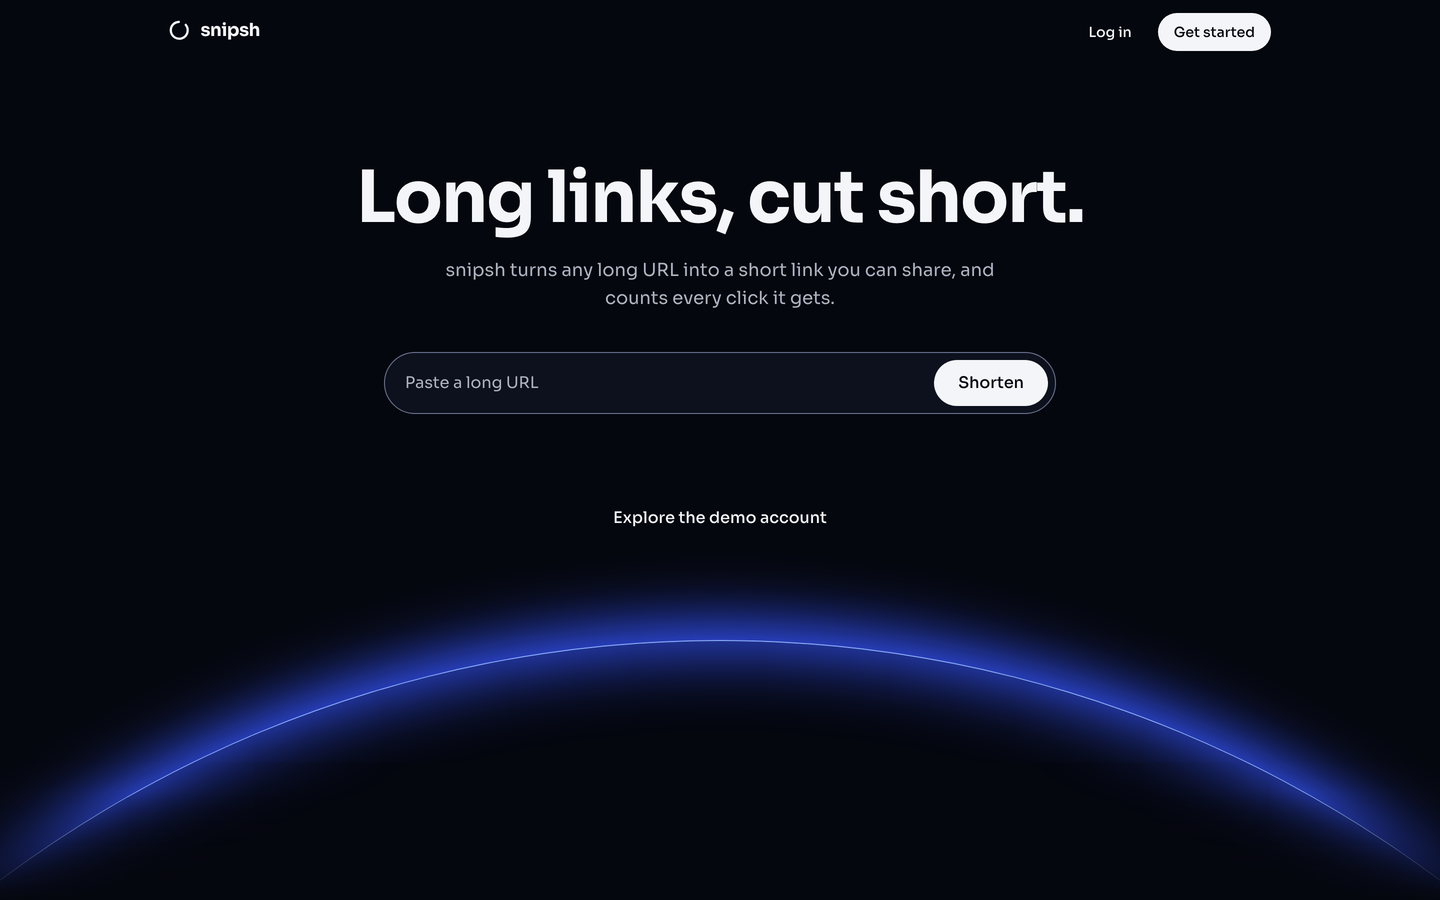
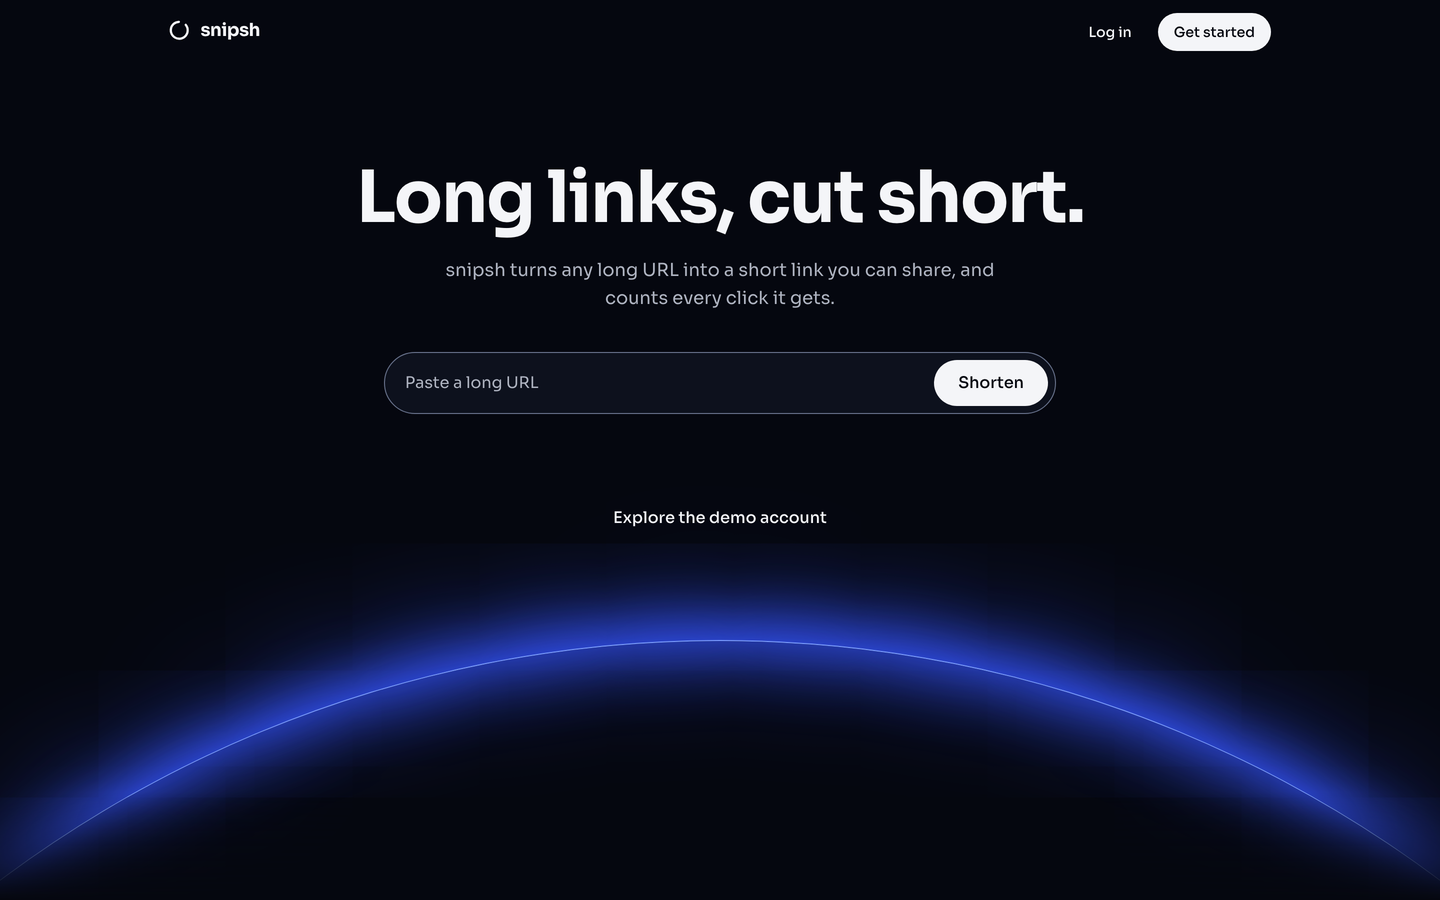
feat(web): make the horizon glow breathe and snap the landing cut on scroll

Changed region(s): [[0.0625, 0.6222, 1.0, 0.9022], [0.0, 0.8711, 0.0625, 0.9333], [0.625, 0.7467, 0.6562, 0.7778]]

diff --git a/apps/web/src/pages/landing/TheCut.tsx b/apps/web/src/pages/landing/TheCut.tsx
@@ -1,5 +1,6 @@
 import { useEffect, useRef, useState } from 'react'
 import { shortLinkLabel } from '@/lib/short-link'
+import { cn } from '@/lib/utils'
 import { prefersReducedMotion } from './motion'
 
 // A sample address; this short link does not exist.
@@ -8,12 +9,10 @@ const SAMPLE_URL =
 const SAMPLE_SLUG = 'Wq0_m7e'
 
 // How far the page scrolls while the section is pinned.
-const PIN_TRAVEL_PX = 900
-// The cut waits a little at each end, so both the long URL and the short link get a still moment.
-const CUT_START = 0.1
-const CUT_END = 0.9
-
-const clamp01 = (value: number) => Math.min(Math.max(value, 0), 1)
+const PIN_TRAVEL_PX = 500
+// Scroll past this share of the pinned distance and the cut plays; scroll back above it and it undoes.
+const CUT_AT = 0.35
+const CUT_MOTION = 'duration-700 ease-out-expo'
 
 function Intro() {
   return (
@@ -43,17 +42,15 @@ function Addresses() {
   )
 }
 
-// The section pins while the page scrolls, and the scroll drives a cut line across the long URL:
-// down wipes it away and leaves the short link, back up puts it together again.
+// The section pins while the page scrolls. Passing the threshold snaps the cut line across the
+// long URL and leaves the short link; scrolling back above it puts the long URL together again.
 function PinnedCut() {
   const section = useRef<HTMLElement>(null)
-  const stage = useRef<HTMLDivElement>(null)
+  const [isCut, setIsCut] = useState(false)
 
   useEffect(() => {
     function update() {
-      const progress = -section.current!.getBoundingClientRect().top / PIN_TRAVEL_PX
-      const cut = clamp01((progress - CUT_START) / (CUT_END - CUT_START))
-      stage.current!.style.setProperty('--cut', String(cut))
+      setIsCut(-section.current!.getBoundingClientRect().top / PIN_TRAVEL_PX > CUT_AT)
     }
     update()
     window.addEventListener('scroll', update, { passive: true })
@@ -64,14 +61,28 @@ function PinnedCut() {
     <section ref={section} aria-labelledby="cut-title" style={{ height: `calc(100svh + ${PIN_TRAVEL_PX}px)` }}>
       <div className="sticky top-0 flex h-svh flex-col justify-center">
         <Intro />
-        <div ref={stage} aria-hidden className="relative mt-14 h-[1.6em] text-lg sm:mt-20 sm:text-4xl">
-          <span className="link-text absolute inset-0 [clip-path:inset(-1em_0_-1em_calc(var(--cut,0)*100%))] whitespace-nowrap text-muted-foreground [mask-image:linear-gradient(to_right,#000_75%,transparent)] [overflow-wrap:normal]">
+        <div aria-hidden className="relative mt-14 h-[1.6em] text-lg sm:mt-20 sm:text-4xl">
+          <span
+            className={cn(
+              'link-text absolute inset-0 whitespace-nowrap text-muted-foreground transition-[clip-path] [mask-image:linear-gradient(to_right,#000_75%,transparent)] [overflow-wrap:normal]',
+              CUT_MOTION,
+              isCut ? '[clip-path:inset(-1em_0_-1em_100%)]' : '[clip-path:inset(-1em_0_-1em_0)]',
+            )}
+          >
             {SAMPLE_URL}
           </span>
-          <span className="link-text absolute inset-0 [clip-path:inset(-1em_calc((1-var(--cut,0))*100%)_-1em_0)] font-bold">
+          <span
+            className={cn(
+              'link-text absolute inset-0 font-bold transition-[clip-path]',
+              CUT_MOTION,
+              isCut ? '[clip-path:inset(-1em_0_-1em_0)]' : '[clip-path:inset(-1em_100%_-1em_0)]',
+            )}
+          >
             {shortLinkLabel(SAMPLE_SLUG)}
           </span>
-          <span className="absolute -inset-y-4 left-[calc(var(--cut,0)*100%)] w-0.5 rounded-full bg-ring shadow-[0_0_18px_3px_var(--primary)]" />
+          <span className={cn('absolute inset-0 transition-transform', CUT_MOTION, isCut && 'translate-x-full')}>
+            <span className="absolute -inset-y-4 left-0 w-0.5 rounded-full bg-ring shadow-[0_0_18px_3px_var(--primary)]" />
+          </span>
         </div>
         <Addresses />
       </div>

diff --git a/apps/web/src/pages/landing/StatusCodes.tsx b/apps/web/src/pages/landing/StatusCodes.tsx
@@ -6,6 +6,8 @@ const GITHUB_URL = 'https://github.com/soewaiyanag/snipsh'
 const ROW_STAGGER_MS = 90
 // The pinned track needs room for cards side by side, a pointer to scroll with, and motion allowed.
 const TRACK_QUERY = '(min-width: 1024px) and (prefers-reduced-motion: no-preference)'
+// Page scroll spent per pixel the row moves sideways; under 1 so the track passes quickly.
+const SCROLL_PER_TRACK_PX = 0.6
 const SKEW_DEG_PER_PX = 0.08
 const MAX_SKEW_DEG = 5
 const SKEW_SETTLE_MS = 120
@@ -143,7 +145,7 @@ function Track() {
     let settleTimer: ReturnType<typeof setTimeout>
 
     function update() {
-      const progress = travel === 0 ? 0 : clamp(-section.current!.getBoundingClientRect().top / travel, 0, 1)
+      const progress = travel === 0 ? 0 : clamp(-section.current!.getBoundingClientRect().top / (travel * SCROLL_PER_TRACK_PX), 0, 1)
       const isMoving = progress > 0 && progress < 1
       const skew = isMoving
         ? clamp((window.scrollY - lastScrollY) * SKEW_DEG_PER_PX, -MAX_SKEW_DEG, MAX_SKEW_DEG)
@@ -170,7 +172,7 @@ function Track() {
       ref={section}
       aria-labelledby="codes-title"
       className="mt-40"
-      style={{ height: `calc(100svh + ${travel}px)` }}
+      style={{ height: `calc(100svh + ${travel * SCROLL_PER_TRACK_PX}px)` }}
     >
       <div ref={pane} className="sticky top-0 flex h-svh flex-col justify-center">
         <Intro />

diff --git a/apps/web/src/components/HorizonArc.tsx b/apps/web/src/components/HorizonArc.tsx
@@ -1,7 +1,7 @@
 // The arc is the top of a circle this wide: the logo's ring, seen from very close.
 const ARC_DIAMETER_PX = 2400
 
-// Fills the first screen of the landing page, starting behind the header. It never rises
+// Fills the first screen of the landing page, starting behind the header. Its light swells slowly. It never rises
 // above 40rem, so its glow stays clear of the hero's last button on short screens.
 export function HorizonArc() {
   return (
@@ -11,6 +11,11 @@ export function HorizonArc() {
     >
       <div
         className="absolute top-[max(62%,40rem)] left-1/2 -translate-x-1/2 rounded-full border-t-[1.5px] border-ring bg-background shadow-horizon"
+        style={{ width: ARC_DIAMETER_PX, height: ARC_DIAMETER_PX }}
+      />
+      {/* A stronger light over the same arc, fading in and out. Opacity alone keeps it cheap to animate. */}
+      <div
+        className="absolute top-[max(62%,40rem)] left-1/2 -translate-x-1/2 rounded-full opacity-0 shadow-horizon-bright motion-safe:animate-glow"
         style={{ width: ARC_DIAMETER_PX, height: ARC_DIAMETER_PX }}
       />
     </div>

diff --git a/apps/web/src/index.css b/apps/web/src/index.css
@@ -43,11 +43,20 @@
   --shadow-field-invalid: 0 0 0 1px var(--destructive);
   /* The landing horizon: light above the arc's edge and a little just inside it. */
   --shadow-horizon: 0 -22px 60px -6px var(--primary), inset 0 26px 70px -20px var(--primary);
+  /* The same light, stronger and wider, for when the arc has climbed. */
+  --shadow-horizon-bright: 0 -40px 120px 4px var(--primary), inset 0 40px 110px -16px var(--primary);
 
+  /* The horizon's light swells and settles, slowly, like breathing. */
+  --animate-glow: glow 7s ease-in-out infinite alternate;
   /* Landing page reveals: rows wipe in from the left, the click line draws itself. */
   --animate-wipe: wipe 0.7s cubic-bezier(0.16, 1, 0.3, 1) both;
   --animate-draw-line: draw-line 2.4s cubic-bezier(0.16, 1, 0.3, 1) both;
 
+  @keyframes glow {
+    from { opacity: 0; }
+    /* Short of full strength, so the arc's edge line stays crisp at the brightest point. */
+    to { opacity: 0.65; }
+  }
   @keyframes wipe {
     from { clip-path: inset(-2rem 100% -2rem -2rem); }
     to { clip-path: inset(-2rem); }

diff --git a/apps/web/src/pages/landing/motion.ts b/apps/web/src/pages/landing/motion.ts
@@ -36,12 +36,15 @@ export function useMediaQuery(query: string) {
   return matches
 }
 
+// Share of the remaining distance covered each frame. Lenis defaults to 0.1, which felt heavy.
+const SCROLL_CATCH_UP = 0.18
+
 // Eased wheel scrolling for the landing page only. Touch scrolling stays native.
 export function useSmoothScroll() {
   useEffect(() => {
     // Lenis measures the page with ResizeObserver; without one, scrolling stays native.
     if (prefersReducedMotion() || !('ResizeObserver' in window)) return
-    const lenis = new Lenis({ autoRaf: true })
+    const lenis = new Lenis({ autoRaf: true, lerp: SCROLL_CATCH_UP })
     return () => lenis.destroy()
   }, [])
 }

diff --git a/apps/web/PRODUCT.md b/apps/web/PRODUCT.md
@@ -47,8 +47,8 @@ Nothing is claimed yet. The owner confirmed this is an open decision: the produc
 - The owner's stated visual constraint (from `CLAUDE.md`): clean and distinctive, not a generic template; one accent colour, used consistently.
 - The owner's later instruction, which is binding: the design must be simple, and must look different from most URL shorteners. A generic URL-shortener design is the thing to avoid.
 - The owner prefers a dark theme, and does not want yellow anywhere in the design.
-- The owner chose the direction: futuristic and dark. The landing hero is one still, glowing arc like a horizon (no other light, nothing moving), used on the landing hero only; the logo is a ring with a piece snipped out; buttons are flat pills, white for the main action, with a ring of light on hover. Signed-in pages use the same theme without the arc: a centred column, the landing page's pill bar to make a link, a roomy list instead of a table, and clicks drawn as a glowing line. Bevelled or shaded buttons read as dated to the owner. They do not want a slug set at giant size.
-- The owner chose the final look from sketches: a logo that is a ring with a piece snipped out; a landing hero with one still, glowing arc like a horizon, with nothing moving and no other light, used on the landing hero only; and flat pill buttons, white for the main action, that gain a ring of blue light on hover. Bevelled or shaded buttons read as dated to the owner.
+- The owner chose the direction: futuristic and dark. The landing hero is one glowing arc like a horizon (no other light), used on the landing hero only; it does not move, but on 2026-11-17 the owner asked for its light to swell and settle slowly, like breathing; the logo is a ring with a piece snipped out; buttons are flat pills, white for the main action, with a ring of light on hover. Signed-in pages use the same theme without the arc: a centred column, the landing page's pill bar to make a link, a roomy list instead of a table, and clicks drawn as a glowing line. Bevelled or shaded buttons read as dated to the owner. They do not want a slug set at giant size.
+- The owner chose the final look from sketches: a logo that is a ring with a piece snipped out; a landing hero with one glowing arc like a horizon and no other light, used on the landing hero only (its light breathes slowly, see above); and flat pill buttons, white for the main action, that gain a ring of blue light on hover. Bevelled or shaded buttons read as dated to the owner.
 
 ## Evidence on Hand
 
